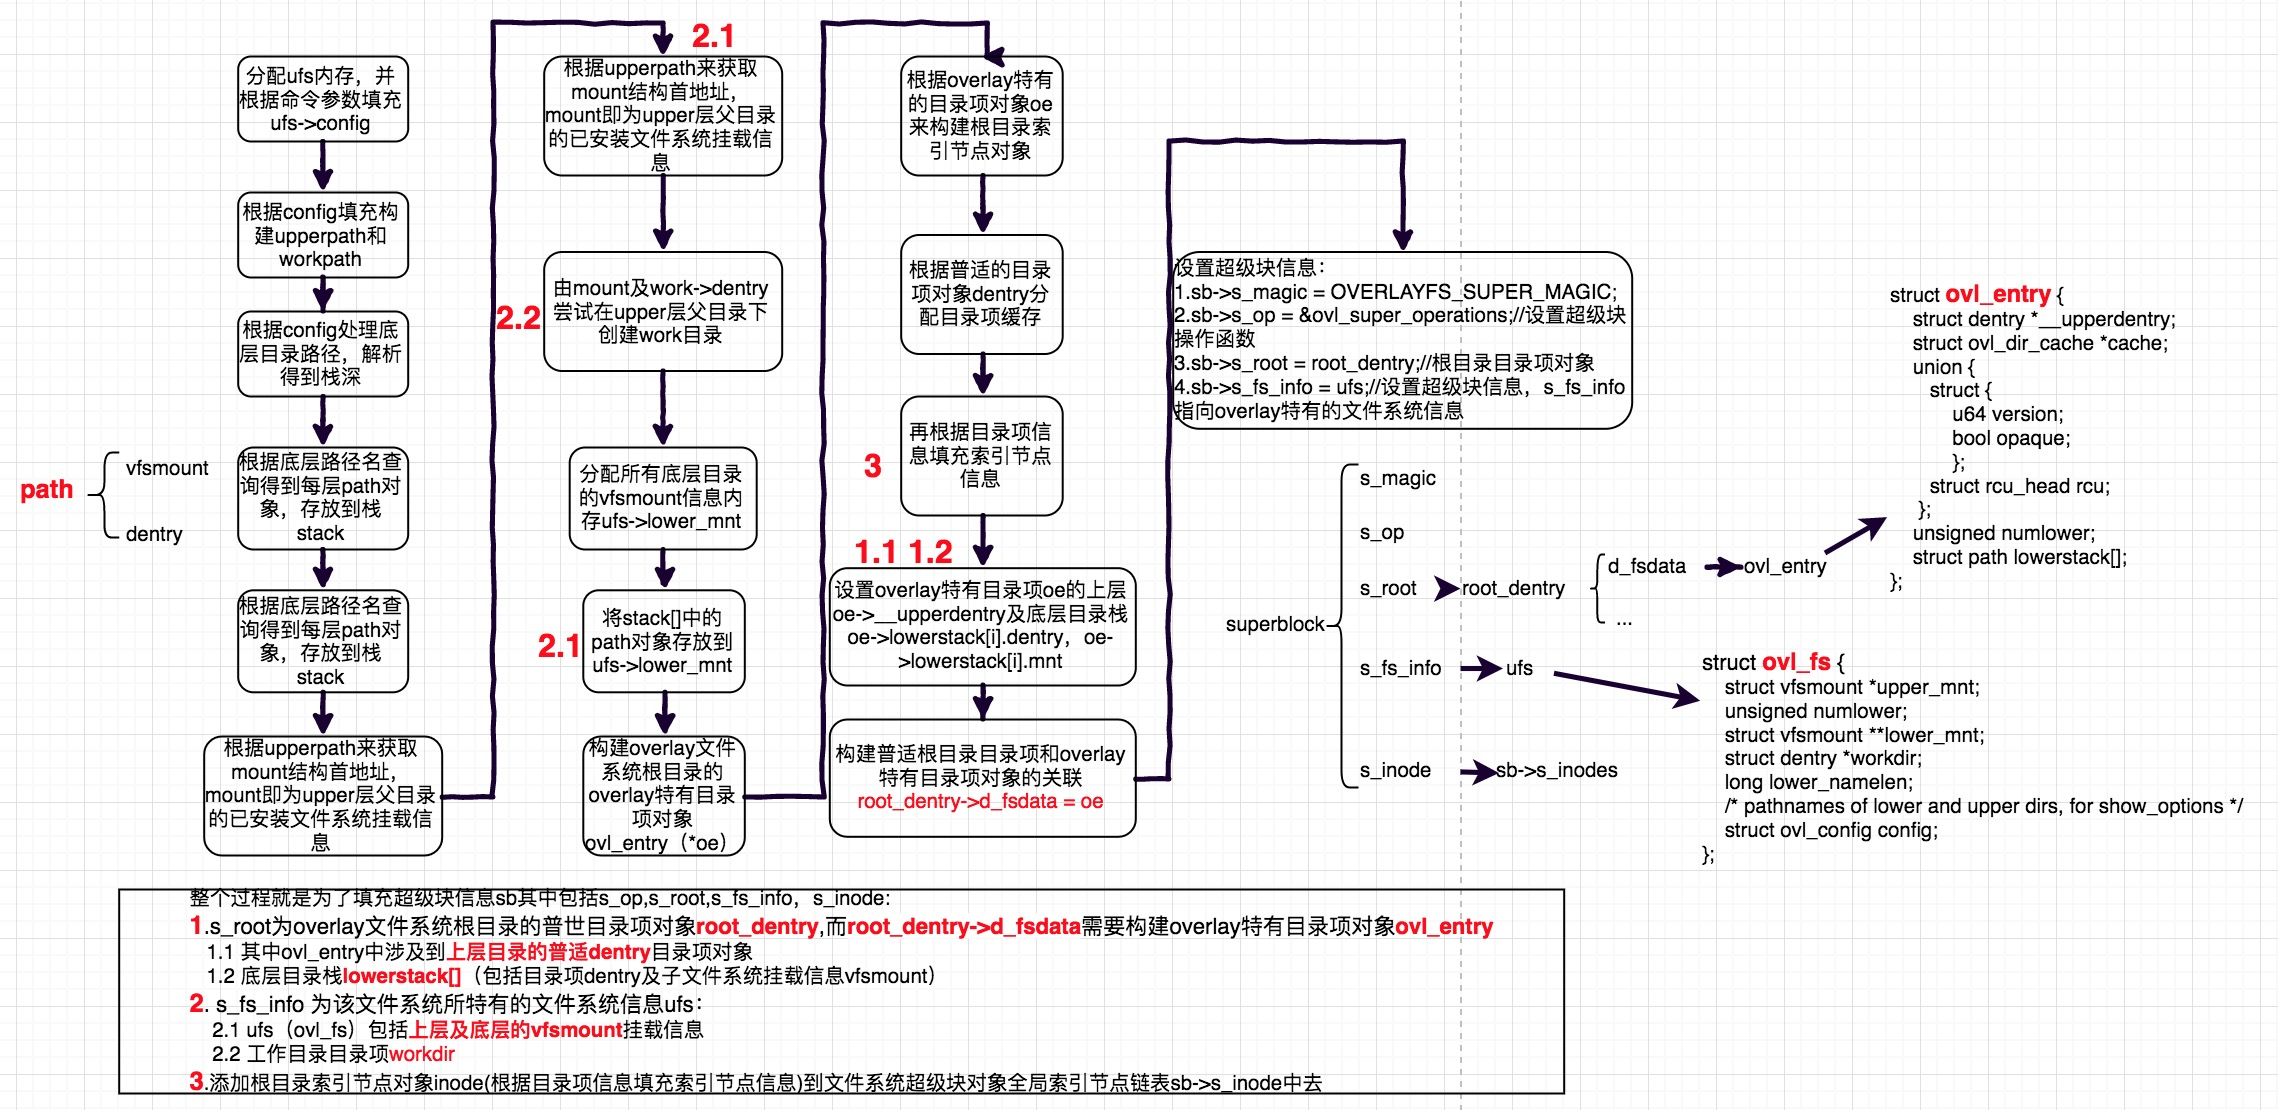
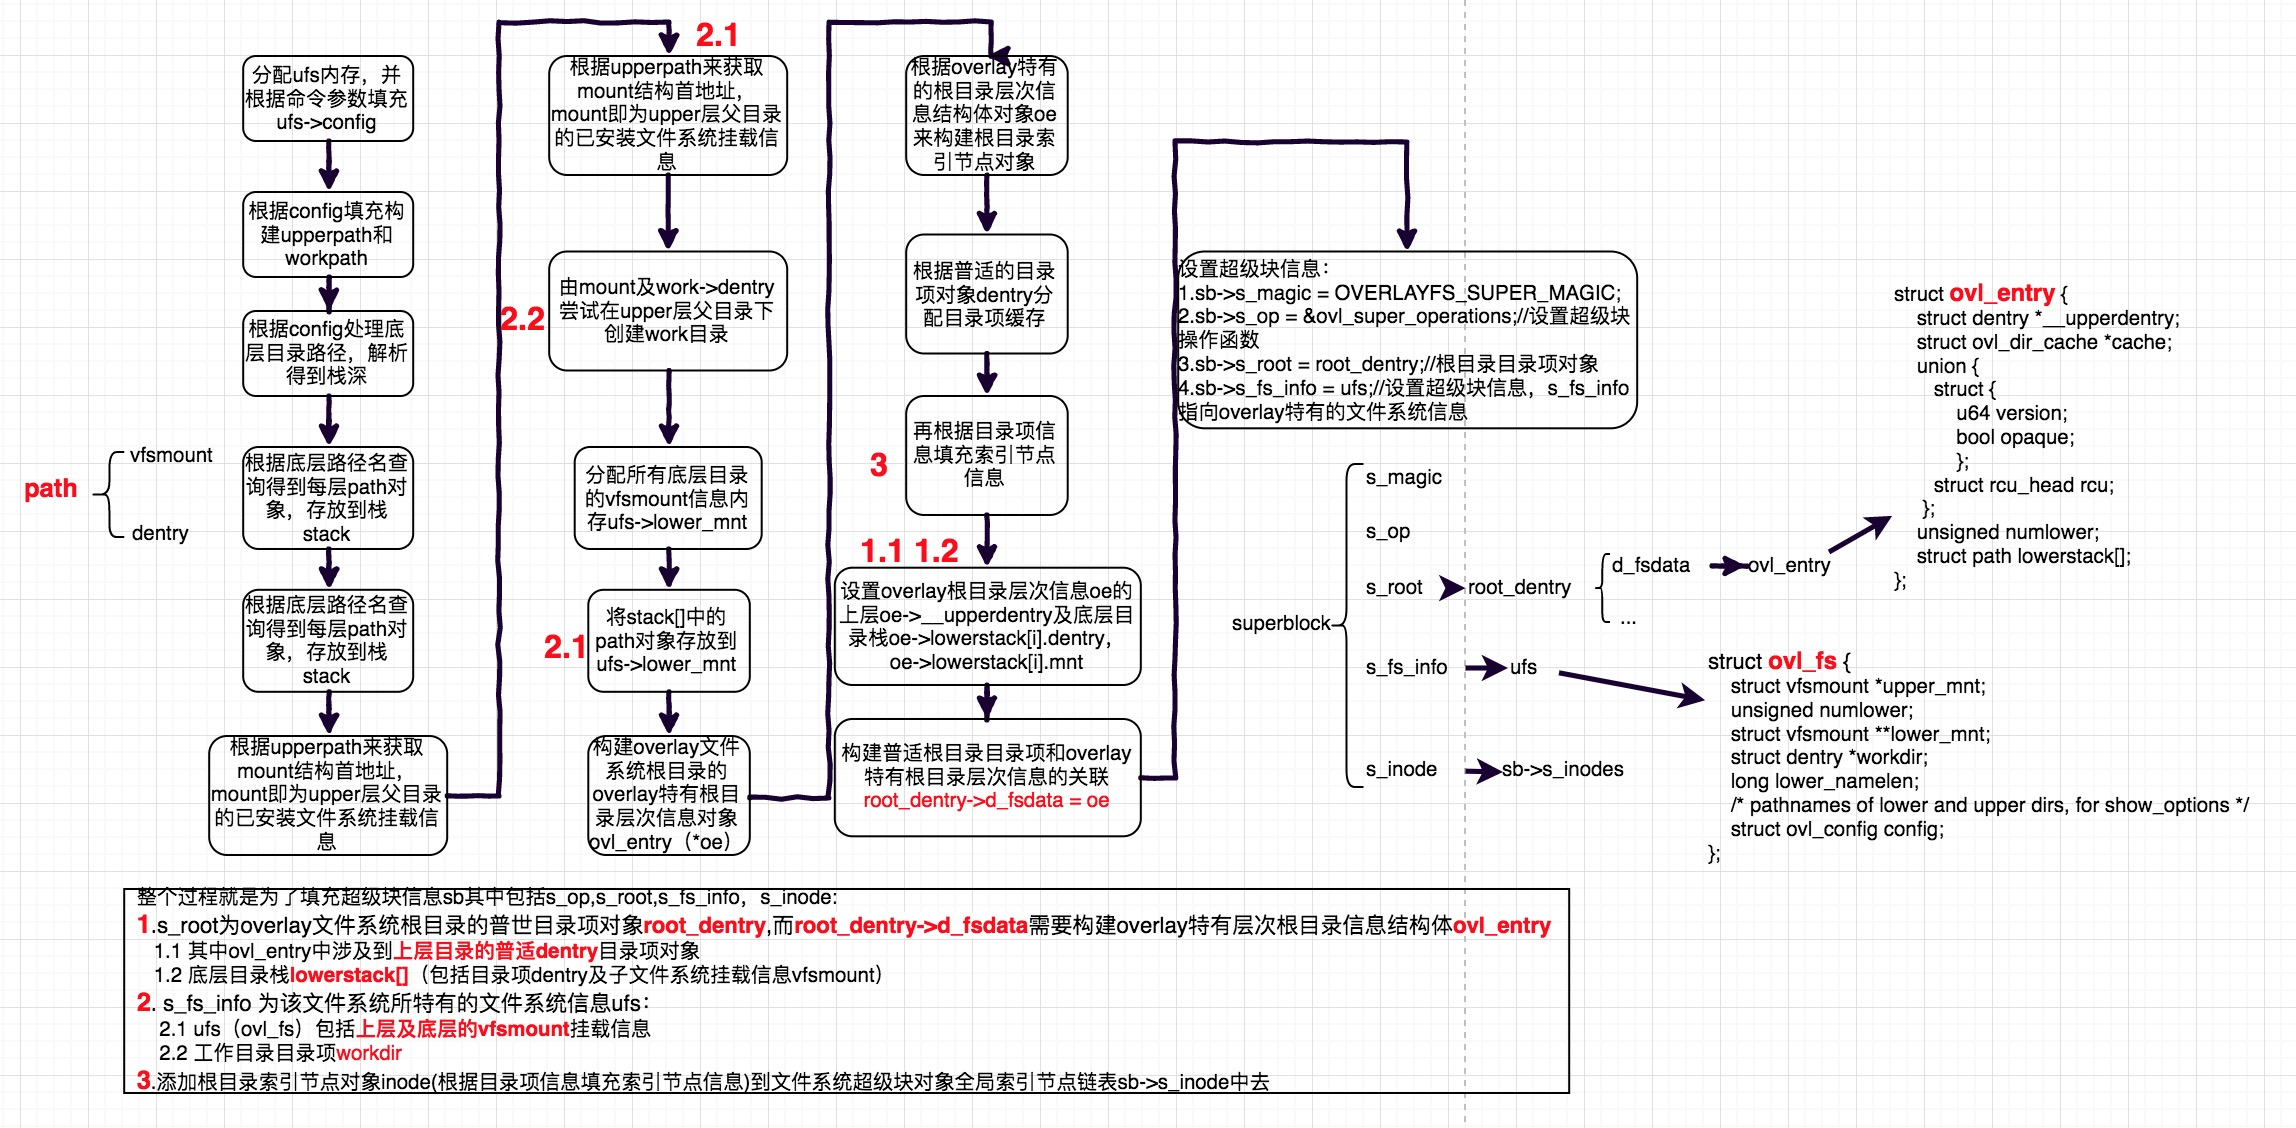
overlay install

Changed region(s): [[0.0, 0.0, 0.9974, 1.0], [0.6545, 0.8883, 0.7169, 0.9189]]

diff --git a/_posts/2017-12-29-docker_overlay文件系统的实现.md b/_posts/2017-12-29-docker_overlay文件系统的实现.md
@@ -204,7 +204,7 @@ struct ovl_config {
 	char *upperdir;
 	char *workdir;
 };
-//overlay特有的目录项对象
+//overlay根目录层次信息结构体
 struct ovl_entry {
     struct dentry *__upperdentry;
     struct ovl_dir_cache *cache;
@@ -376,7 +376,7 @@ static int ovl_fill_super(struct super_block *sb, void *data, int silent)
 		sb->s_d_op = &ovl_dentry_operations;
 
 	err = -ENOMEM;
-	oe = ovl_alloc_entry(numlower);//根据栈的深度来确定ovl_entry（overlay所特有的目录项对象）的所需内存大小,调用offsetof(),然后分配内存返回首地址oe
+	oe = ovl_alloc_entry(numlower);//根据栈的深度来确定ovl_entry（overlay层次信息对象）的所需内存大小,调用offsetof(),然后分配内存返回首地址oe
 	if (!oe)
 		goto out_put_lower_mnt;
 
@@ -397,7 +397,7 @@ static int ovl_fill_super(struct super_block *sb, void *data, int silent)
 	}
 	kfree(stack);
 
-	root_dentry->d_fsdata = oe;//根目录目录项在overlay文件系统中特有的目录项结构体
+	root_dentry->d_fsdata = oe;//根目录目录项中保存的overlay文件系统根目录层次信息结构体
 
 	ovl_copyattr(ovl_dentry_real(root_dentry)->d_inode,
 		     root_dentry->d_inode);
